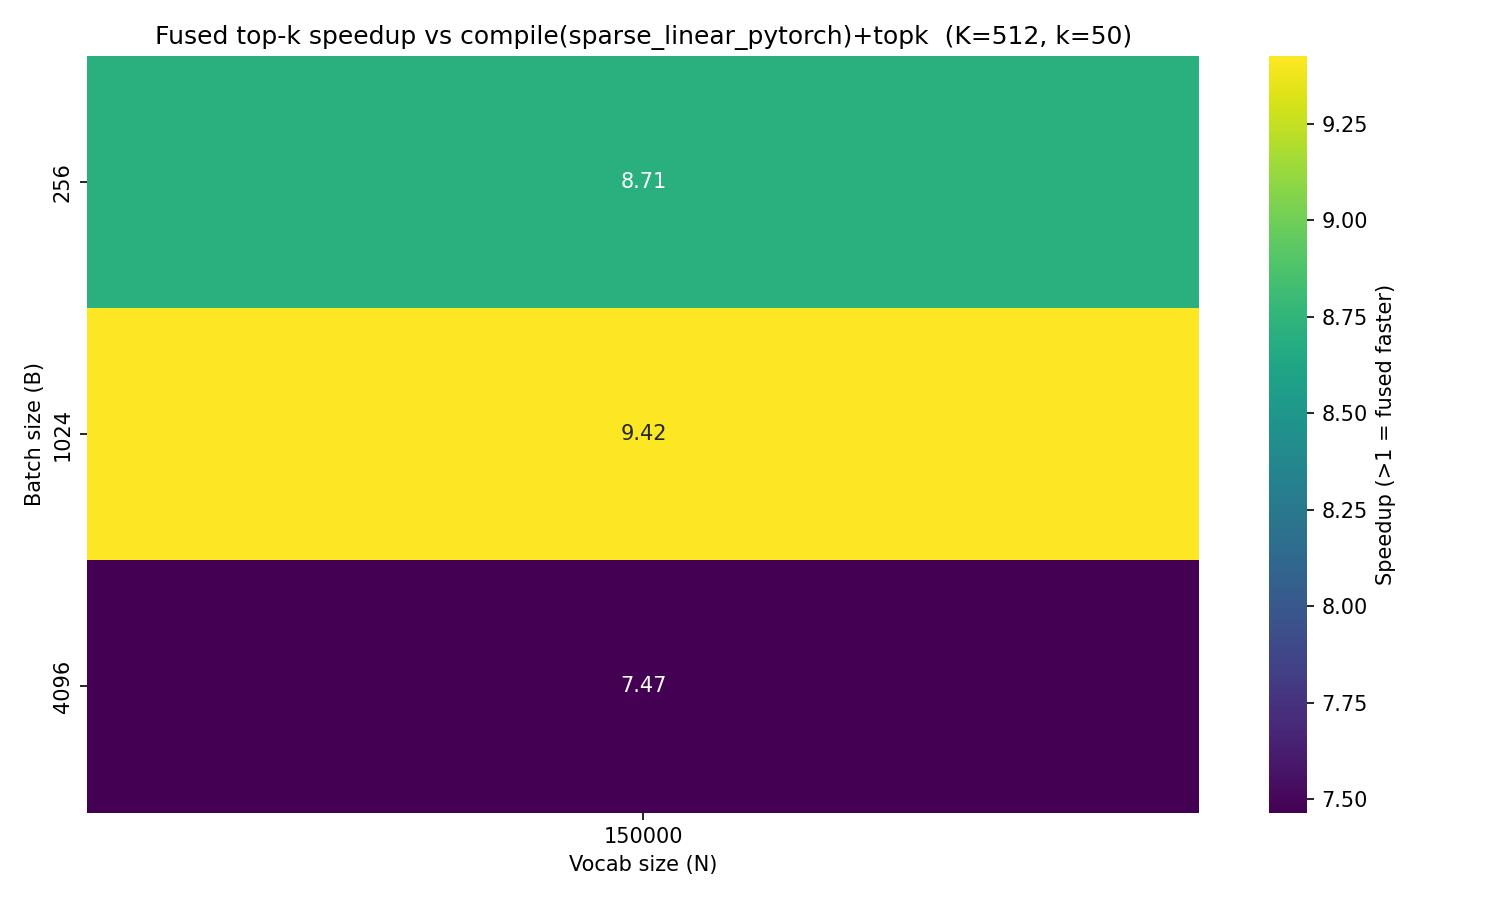
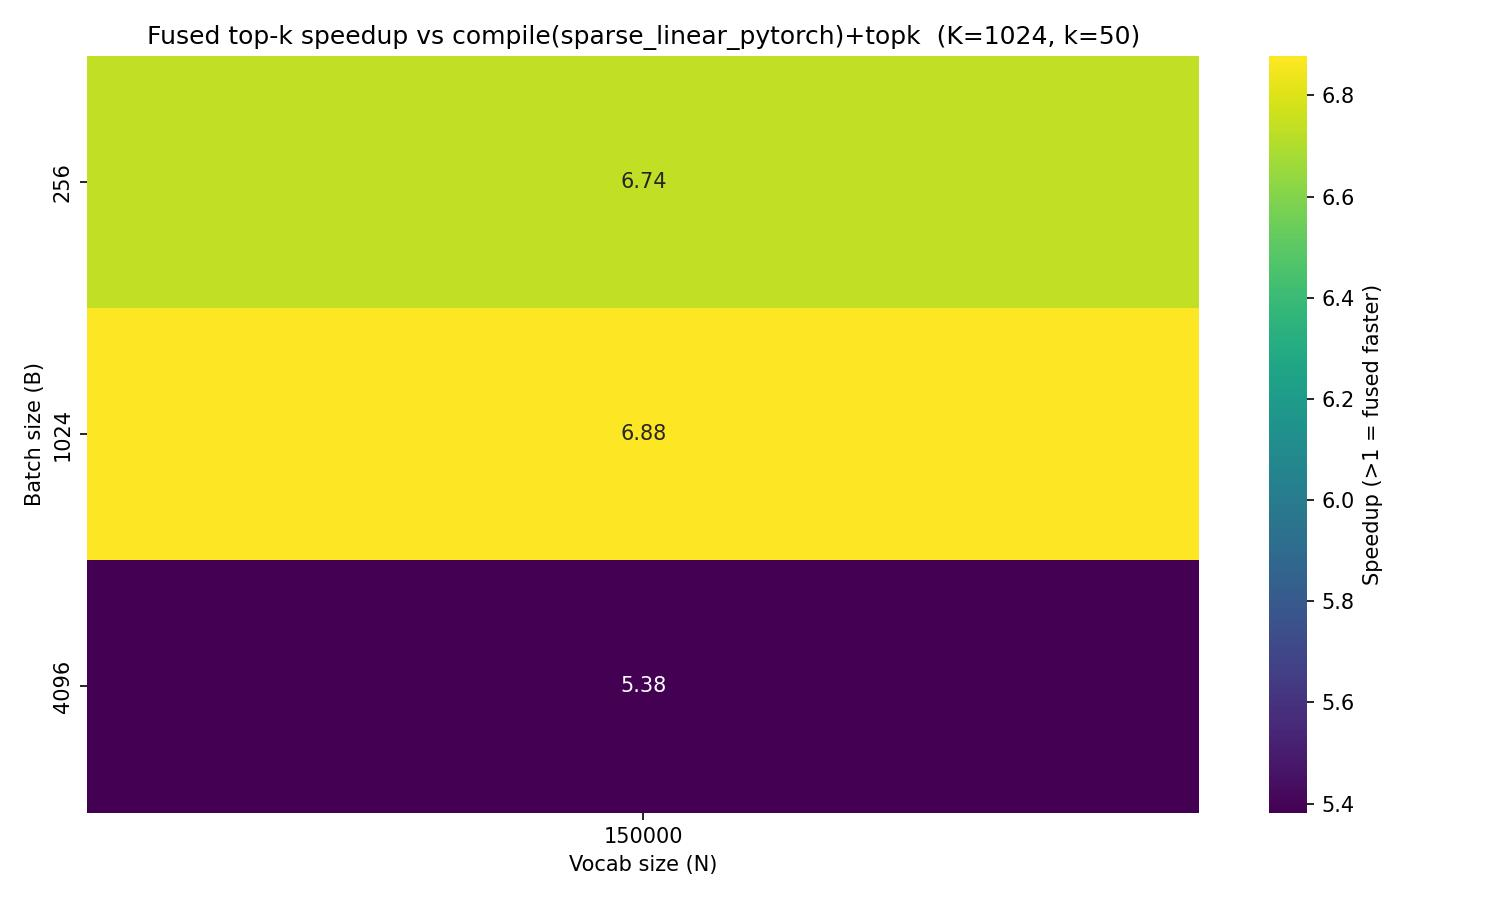
Update benchmarking

diff --git a/examples/scripts/benchmark/benchmark_vtnk.py b/examples/scripts/benchmark/benchmark_vtnk.py
@@ -31,8 +31,8 @@ K = 512
 WARMUP = 25
 REP = 100
 
-ALL_ALGORITHMS = ["fused", "kernel", "pytorch", "sparse_pytorch", "trie_cpu"]
-DEFAULT_ALGORITHMS = ["fused", "kernel", "pytorch", "sparse_pytorch"]
+ALL_ALGORITHMS = ["fused", "kernel", "pytorch", "sparse_pytorch", "dense_lookup", "trie_cpu"]
+DEFAULT_ALGORITHMS = ["fused", "kernel", "pytorch", "sparse_pytorch", "dense_lookup"]
 DEFAULT_SPARSITY = 0.01
 
 torch.set_float32_matmul_precision("high")
@@ -105,6 +105,58 @@ def trie_cpu_traversal(
     return mask
 
 
+def _dense_lookup_inner(a: torch.Tensor, weight: torch.Tensor, mask1d: torch.Tensor) -> torch.Tensor:
+    """Full linear + dense boolean mask — the hot path wrapped by torch.compile."""
+    logits = (a @ weight.T).float()
+    return logits.masked_fill(~mask1d.unsqueeze(0), float("-inf"))
+
+
+_dense_lookup_compiled = torch.compile(_dense_lookup_inner)
+
+
+def dense_lookup_pytorch(
+    a: torch.Tensor, weight: torch.Tensor, cur_node: torch.Tensor, csr, step: int
+) -> tuple[torch.Tensor, torch.Tensor, torch.Tensor]:
+    """Full dense linear + dense mask lookup.
+
+    Computes the full logit vector (a @ weight.T) via torch.compile, then masks
+    invalid tokens using csr.dense_mask_by_layer[step].  Valid branch indices and
+    next-node IDs are looked up from csr.dense_states (no CSR scatter needed).
+
+    Only supports step=0 (all batch items at the root node); incompatible with
+    --diverse-nodes because step=1 requires the previous-token path to index the
+    2-D dense_mask_by_layer, which is not stored in cur_node.
+
+    Returns (next_node, valid_idxs, corrected_logits) matching vtnk_pytorch output:
+      next_node:        (B, max_branches) int64 — child BFS IDs, -1 for padding
+      valid_idxs:       (B, max_branches) int64 — valid token indices, -1 for padding
+      corrected_logits: (B, N)           float32 — logits, -inf for invalid tokens
+    """
+    device = a.device
+    B = a.shape[0]
+
+    mask1d: torch.Tensor = csr.dense_mask_by_layer[step]  # [N]
+    corrected_logits = _dense_lookup_compiled(a, weight, mask1d)  # [B, N]
+
+    # Pack valid_idxs and next_node from dense_states — no CSR traversal needed.
+    # dense_states is 1-D for dense_lookup_layers=1 (the step=0 case):
+    #   dense_states[tok] = BFS node ID of the child reached by tok from root.
+    max_branches = csr.layer_max_branches[step]
+    valid_toks = mask1d.nonzero(as_tuple=True)[0]  # [n_valid]
+    n_valid = valid_toks.shape[0]
+
+    padded_valid = valid_toks.new_full((max_branches,), -1)
+    padded_valid[:n_valid] = valid_toks
+
+    padded_next = valid_toks.new_full((max_branches,), -1)
+    padded_next[:n_valid] = csr.dense_states[valid_toks]
+
+    valid_idxs = padded_valid.unsqueeze(0).expand(B, -1)
+    next_node = padded_next.unsqueeze(0).expand(B, -1)
+
+    return next_node, valid_idxs, corrected_logits
+
+
 def run_bench(fn):
     return testing.do_bench(fn, warmup=WARMUP, rep=REP)
 
@@ -124,7 +176,7 @@ def run_bench_cpu(fn, warmup: int = WARMUP, rep: int = REP) -> float:
 
 def benchmark_grid(B_vals, N_vals, algorithms, sparsity, diverse_nodes=False):
     alg_set = set(algorithms)
-    gpu_algos = alg_set & {"fused", "kernel", "pytorch", "sparse_pytorch"}
+    gpu_algos = alg_set & {"fused", "kernel", "pytorch", "sparse_pytorch", "dense_lookup"}
     max_B, max_N = max(B_vals), max(N_vals)
     records = []
 
@@ -135,8 +187,13 @@ def benchmark_grid(B_vals, N_vals, algorithms, sparsity, diverse_nodes=False):
 
             # CPU traversal is too slow to run at the highest N and B values,
             # and incompatible with diverse_nodes (requires a deeper Trie object).
+            # dense_lookup requires step=0 (all batch items at root); diverse_nodes
+            # uses step=1 where the 2-D dense mask must be indexed by prev_token.
             skip_cpu = B == max_B or N == max_N or diverse_nodes
-            active_alg_set = alg_set - ({"trie_cpu"} if skip_cpu else set())
+            skip_algos = {"trie_cpu"} if skip_cpu else set()
+            if diverse_nodes:
+                skip_algos.add("dense_lookup")
+            active_alg_set = alg_set - skip_algos
 
             if gpu_algos:
                 if diverse_nodes:
@@ -180,6 +237,8 @@ def benchmark_grid(B_vals, N_vals, algorithms, sparsity, diverse_nodes=False):
                     vtnk_pytorch(linear(a), cur_node, csr, step=step)
                 if "sparse_pytorch" in active_alg_set:
                     sparse_linear_pytorch_compiled(a, weight, cur_node, csr, step=step)
+                if "dense_lookup" in active_alg_set:
+                    dense_lookup_pytorch(a, weight, cur_node, csr, step=step)
 
             record = {"B": B, "N": N}
 
@@ -205,6 +264,10 @@ def benchmark_grid(B_vals, N_vals, algorithms, sparsity, diverse_nodes=False):
                             a, weight, cur_node, csr, step=step
                         )
                     )
+                if "dense_lookup" in active_alg_set:
+                    record["ms_dense_lookup"] = run_bench(
+                        lambda: dense_lookup_pytorch(a, weight, cur_node, csr, step=step)
+                    )
             if "trie_cpu" in active_alg_set:
                 record["ms_trie_cpu"] = run_bench_cpu(
                     lambda: trie_cpu_traversal(cur_node_cpu, trie_nodes, N)
@@ -225,6 +288,10 @@ def benchmark_grid(B_vals, N_vals, algorithms, sparsity, diverse_nodes=False):
             if "fused" in active_alg_set and "trie_cpu" in active_alg_set:
                 record["speedup_fused_vs_trie_cpu"] = (
                     record["ms_trie_cpu"] / record["ms_fused"]
+                )
+            if "fused" in active_alg_set and "dense_lookup" in active_alg_set:
+                record["speedup_fused_vs_dense_lookup"] = (
+                    record["ms_dense_lookup"] / record["ms_fused"]
                 )
 
             records.append(record)
@@ -339,5 +406,13 @@ if __name__ == "__main__":
             value_col="speedup_fused_vs_trie_cpu",
             title=f"Fused speedup vs CPU trie traversal  (K={K})",
             filename="out/heatmap_fused_vs_trie_cpu.jpg",
+            cbar_label="Speedup (>1 = fused faster)",
+        )
+    if "speedup_fused_vs_dense_lookup" in df.columns:
+        plot_heatmap(
+            df,
+            value_col="speedup_fused_vs_dense_lookup",
+            title=f"Fused speedup vs dense_lookup  (K={K})",
+            filename="out/heatmap_fused_vs_dense_lookup.jpg",
             cbar_label="Speedup (>1 = fused faster)",
         )

diff --git a/examples/scripts/benchmark/benchmark_fused_sample.py b/examples/scripts/benchmark/benchmark_fused_sample.py
@@ -22,7 +22,7 @@ import pandas as pd
 
 from rectokens.schemas.compact_csr_trie import CompactCSRTrie
 from rectokens.schemas.state import ConstraintState
-from rectokens.decoding.vntk import sparse_linear_pytorch
+from rectokens.decoding.vntk import sparse_linear_pytorch, sparse_linear_compact_pytorch
 from rectokens.ops.constrained_node_transition import (
     CUTE_DSL_AVAILABLE,
     fused_linear_constrained_node_transition_sampling,
@@ -41,11 +41,14 @@ ALL_ALGORITHMS = [
     "sparse_pytorch_sample",
     "fused_topk",
     "sparse_pytorch_topk",
+    "sparse_pytorch_topk_compact",
     "cute_topk",
 ]
 DEFAULT_ALGORITHMS = [
     "fused_topk",
     "cute_topk",
+    "sparse_pytorch_topk",
+    "sparse_pytorch_topk_compact",
 ]
 DEFAULT_SPARSITY = 0.01
 
@@ -127,9 +130,21 @@ def benchmark_grid(B_vals, N_vals, algorithms, sparsity, k_top, diverse_nodes=Fa
                 )
                 alg_set = alg_set - {"cute_topk"}
 
-            needs_sparse = alg_set & {"sparse_pytorch_sample", "sparse_pytorch_topk"}
-            if needs_sparse:
+            needs_sparse_full = alg_set & {"sparse_pytorch_sample", "sparse_pytorch_topk"}
+            needs_sparse_compact = "sparse_pytorch_topk_compact" in alg_set
+            if needs_sparse_full:
                 sparse_linear_pytorch_compiled = torch.compile(sparse_linear_pytorch)
+            if needs_sparse_compact:
+
+                def _sparse_compact_topk(a, weight, cur_node, csr, step, k):
+                    nn, vi, branch_logits = sparse_linear_compact_pytorch(
+                        a, weight, cur_node, csr, step
+                    )
+                    topk_logits, topk_branch_idxs = torch.topk(branch_logits, k, dim=-1)
+                    topk_idxs = vi.gather(1, topk_branch_idxs)
+                    return nn, vi, topk_logits, topk_idxs
+
+                sparse_compact_topk_compiled = torch.compile(_sparse_compact_topk)
 
             if "sparse_pytorch_sample" in alg_set:
 
@@ -148,6 +163,13 @@ def benchmark_grid(B_vals, N_vals, algorithms, sparsity, k_top, diverse_nodes=Fa
                     )
                     return torch.topk(corrected_logits, k, dim=-1)
 
+            if needs_sparse_compact:
+
+                def sparse_pytorch_compact_with_topk():
+                    return sparse_compact_topk_compiled(
+                        a, weight, cur_node, csr, step, k
+                    )
+
             # --- warmup / force compilation ---
             with torch.no_grad():
                 if "fused_sample" in alg_set:
@@ -158,6 +180,8 @@ def benchmark_grid(B_vals, N_vals, algorithms, sparsity, k_top, diverse_nodes=Fa
                     fused_linear_constrained_node_transition_topk(a, weight.T, cs, k=k)
                 if "sparse_pytorch_topk" in alg_set:
                     sparse_pytorch_with_topk()
+                if "sparse_pytorch_topk_compact" in alg_set:
+                    sparse_pytorch_compact_with_topk()
                 if "cute_topk" in alg_set:
                     fused_linear_constrained_node_transition_topk_cute(
                         a, weight.T, cs, k=k
@@ -187,6 +211,10 @@ def benchmark_grid(B_vals, N_vals, algorithms, sparsity, k_top, diverse_nodes=Fa
                     record["ms_sparse_pytorch_topk"] = run_bench(
                         sparse_pytorch_with_topk
                     )
+                if "sparse_pytorch_topk_compact" in alg_set:
+                    record["ms_sparse_pytorch_topk_compact"] = run_bench(
+                        sparse_pytorch_compact_with_topk
+                    )
                 if "cute_topk" in alg_set:
                     record["ms_cute_topk"] = run_bench(
                         lambda: fused_linear_constrained_node_transition_topk_cute(
@@ -201,6 +229,14 @@ def benchmark_grid(B_vals, N_vals, algorithms, sparsity, k_top, diverse_nodes=Fa
             if "fused_topk" in alg_set and "sparse_pytorch_topk" in alg_set:
                 record["speedup_fused_topk_vs_sparse_pytorch_topk"] = (
                     record["ms_sparse_pytorch_topk"] / record["ms_fused_topk"]
+                )
+            if "fused_topk" in alg_set and "sparse_pytorch_topk_compact" in alg_set:
+                record["speedup_fused_topk_vs_sparse_pytorch_topk_compact"] = (
+                    record["ms_sparse_pytorch_topk_compact"] / record["ms_fused_topk"]
+                )
+            if "sparse_pytorch_topk" in alg_set and "sparse_pytorch_topk_compact" in alg_set:
+                record["speedup_compact_vs_full_pytorch_topk"] = (
+                    record["ms_sparse_pytorch_topk"] / record["ms_sparse_pytorch_topk_compact"]
                 )
             if "cute_topk" in alg_set and "fused_topk" in alg_set:
                 record["speedup_cute_topk_vs_triton_topk"] = (
@@ -308,6 +344,22 @@ if __name__ == "__main__":
             title=f"Fused top-k speedup vs compile(sparse_linear_pytorch)+topk  (K={K}, k={args.topk})",
             filename="out/heatmap_fused_topk_vs_sparse_pytorch_topk.jpg",
             cbar_label="Speedup (>1 = fused faster)",
+        )
+    if "speedup_fused_topk_vs_sparse_pytorch_topk_compact" in df.columns:
+        plot_heatmap(
+            df,
+            value_col="speedup_fused_topk_vs_sparse_pytorch_topk_compact",
+            title=f"Fused top-k speedup vs compile(sparse_linear_compact_pytorch)+topk  (K={K}, k={args.topk})",
+            filename="out/heatmap_fused_topk_vs_sparse_pytorch_topk_compact.jpg",
+            cbar_label="Speedup (>1 = fused faster)",
+        )
+    if "speedup_compact_vs_full_pytorch_topk" in df.columns:
+        plot_heatmap(
+            df,
+            value_col="speedup_compact_vs_full_pytorch_topk",
+            title=f"Compact pytorch top-k speedup vs full (B,N) pytorch top-k  (K={K}, k={args.topk})",
+            filename="out/heatmap_compact_vs_full_pytorch_topk.jpg",
+            cbar_label="Speedup (>1 = compact faster)",
         )
     if "speedup_cute_topk_vs_triton_topk" in df.columns:
         plot_heatmap(

diff --git a/rectokens/decoding/vntk.py b/rectokens/decoding/vntk.py
@@ -1,14 +1,15 @@
 import torch
 
 
-def sparse_linear_pytorch(a, weight, cur_node, trie, step):
-    """
-    PyTorch impl that only computes logits for valid (constrained) tokens.
-    weight shape: (N, K)  — standard nn.Linear weight layout.
+def _sparse_branch_logits(a, weight, cur_node, trie, step):
+    """Shared inner: trie traversal + dot products for valid branches only.
+
+    Returns (next_node, valid_idxs, branch_logits) where branch_logits has
+    shape (B, max_branches) with -inf padding — no (B, N) scatter.
+    weight shape: (N, K) — standard nn.Linear weight layout.
     """
     device = trie.row_ptrs.device
     B, K = a.shape
-    N = weight.shape[0]
 
     idx_start = trie.row_ptrs[cur_node]
     n_children = trie.row_ptrs[cur_node + 1] - idx_start
@@ -22,20 +23,47 @@ def sparse_linear_pytorch(a, weight, cur_node, trie, step):
     valid_idxs = torch.where(valid_range, cols, -1)
     next_node = torch.where(valid_range, vals, -1)
 
-    # Gather weight rows for valid tokens only, compute dot products
     clamped_idxs = valid_idxs.clamp(min=0)  # (B, max_branches)
     valid_weights = weight[clamped_idxs]  # (B, max_branches, K)
-    logits_valid = (a.unsqueeze(1) * valid_weights).sum(dim=-1)  # (B, max_branches)
+    logits = (a.unsqueeze(1) * valid_weights).sum(dim=-1)  # (B, max_branches)
+    branch_logits = torch.where(valid_range, logits, float("-inf"))
 
-    # Scatter results into full logits tensor (rest stays -inf)
+    return next_node, valid_idxs, branch_logits
+
+
+def sparse_linear_pytorch(a, weight, cur_node, trie, step):
+    """
+    PyTorch impl that only computes logits for valid (constrained) tokens.
+    weight shape: (N, K)  — standard nn.Linear weight layout.
+    """
+    device = trie.row_ptrs.device
+    B = a.shape[0]
+    N = weight.shape[0]
+
+    next_node, valid_idxs, branch_logits = _sparse_branch_logits(
+        a, weight, cur_node, trie, step
+    )
+
+    # Scatter compact logits into full (B, N) tensor (rest stays -inf)
     corrected_logits = torch.full(
         (B, N), float("-inf"), dtype=torch.float32, device=device
     )
     b_idx = torch.arange(B, device=device).unsqueeze(-1).expand_as(valid_idxs)
     valid = valid_idxs >= 0
-    corrected_logits[b_idx[valid], valid_idxs[valid]] = logits_valid[valid]
+    corrected_logits[b_idx[valid], valid_idxs[valid]] = branch_logits[valid]
 
     return next_node, valid_idxs, corrected_logits
+
+
+def sparse_linear_compact_pytorch(a, weight, cur_node, trie, step):
+    """Like sparse_linear_pytorch but skips the (B, N) scatter.
+
+    Returns (next_node, valid_idxs, branch_logits) where branch_logits has
+    shape (B, max_branches). Avoids allocating the full vocab-sized logit
+    matrix — top-k can be applied directly on the compact buffer.
+    weight shape: (N, K)  — standard nn.Linear weight layout.
+    """
+    return _sparse_branch_logits(a, weight, cur_node, trie, step)
 
 
 def vtnk_pytorch(logits, cur_node, trie, step):

diff --git a/rectokens/modules/sparse_linear.py b/rectokens/modules/sparse_linear.py
@@ -3,7 +3,7 @@ from contextlib import contextmanager
 from rectokens.ops.constrained_node_transition import (
     fused_linear_constrained_node_transition,
     fused_linear_constrained_node_transition_sampling,
-    fused_linear_constrained_node_transition_topk,
+    fused_linear_constrained_node_transition_topk_cute,
 )
 from rectokens.schemas.state import ConstraintState
 from torch import nn
@@ -76,7 +76,7 @@ class SparseLinear(nn.Module):
 
         if self._strategy == "topk":
             next_nodes, valid_idxs, topk_logits, topk_idxs = (
-                fused_linear_constrained_node_transition_topk(
+                fused_linear_constrained_node_transition_topk_cute(
                     x,
                     w,
                     self._ctx,
